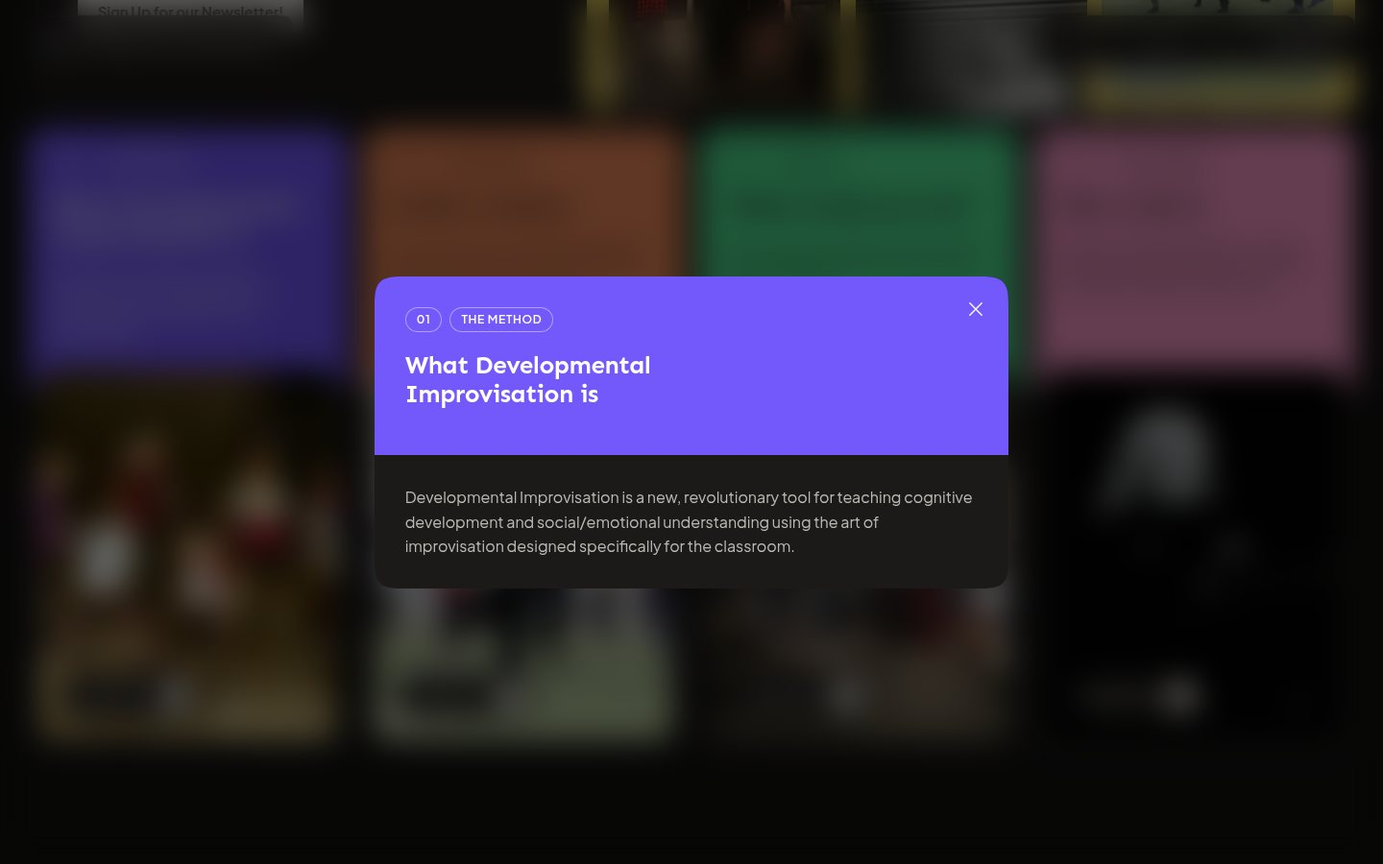
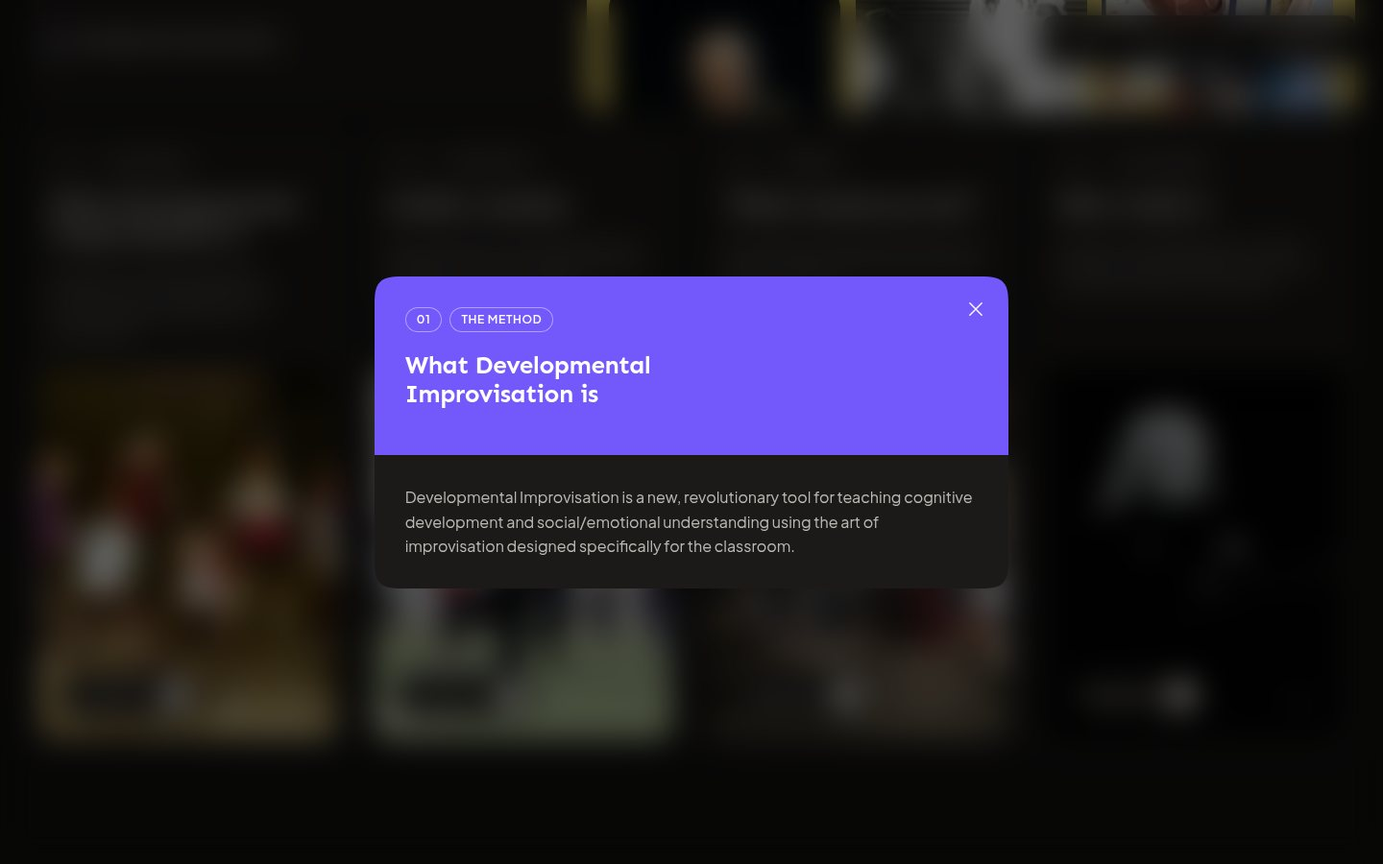
DI: colour rests on a panel; on a card it is a state
Jayden, on looking at v12: the four coloured card heads under the hero were
distracting, the hero should fill the screen so they are not on it at start,
and "I dont want the color to be to distracting it still has to be a premium
site first."

- The hero's photograph panel takes 100svh - --field-top, so the fold lands
  exactly on the field's next gap: no centring air under the panels, and the
  card row starts just off screen.
- The cards' heads are quiet at rest and fill with the card's hue under the
  pointer and on keyboard focus. The reader opens on that same hue. Under
  @media (hover: none) the hue is simply the resting state — where there is
  no pointer there is no state, and a touch screen would otherwise never see
  the section's colour.
- The testimonials' hue moves off the card and onto the person: three quiet
  quote cards, and the overhanging chip carries the colour.

Two surfaces carry a hue at rest now, and both are structure: the hero's
photograph panel and the closing field.

UX: a click that ends a text selection no longer opens the reader — a card is
a big target wrapped around selectable words.

Worst contrast 4.64 -> 5.28:1 dark, 4.82 -> 5.44:1 light. 41 gate lines pass.

Claude-Session: https://claude.ai/code/session_01CEtBSjUp3pkVrxd3vd7dDr

Changed region(s): [[0.0, 0.0, 1.0, 0.4667], [0.0312, 0.0, 0.2188, 0.0311], [0.9375, 0.0, 0.9688, 0.0311]]

diff --git a/di-site/styleguide.html b/di-site/styleguide.html
@@ -78,7 +78,7 @@ code { font-family: ui-monospace, Menlo, monospace; font-size: .85em; color: var
 <p class="t-body">Two things carry the photographs, on one shared angle. <b>The hero's bento</b>: three columns of 4:5 photographs looping vertically inside a colour panel that clips them, adjacent columns opposed, at three speeds. <b>The ring</b> (the quote): eight circles on a circle, upright, turning with the flow; hover one to stop it.</p>
 <div class="demo ring mini-ring" style="margin-top:var(--sp-4);padding:0"><div class="ring__stage"><div class="ring__orbit"><div class="ring__item"><figure class="photo photo--1x1 photo--circle"><picture><source type="image/avif" srcset="images/bow-tie-chairs-160.avif 160w, images/bow-tie-chairs-320.avif 320w, images/bow-tie-chairs-480.avif 480w, images/bow-tie-chairs-960.avif 960w" sizes="80px"><source type="image/webp" srcset="images/bow-tie-chairs-160.webp 160w, images/bow-tie-chairs-320.webp 320w, images/bow-tie-chairs-480.webp 480w, images/bow-tie-chairs-960.webp 960w" sizes="80px"><img src="images/bow-tie-chairs-960.jpg" width="1536" height="1273" alt="" loading="lazy" decoding="async"></picture></figure></div><div class="ring__item"><figure class="photo photo--1x1 photo--circle"><picture><source type="image/avif" srcset="images/linda-laughing-160.avif 160w, images/linda-laughing-320.avif 320w, images/linda-laughing-480.avif 480w, images/linda-laughing-960.avif 960w" sizes="80px"><source type="image/webp" srcset="images/linda-laughing-160.webp 160w, images/linda-laughing-320.webp 320w, images/linda-laughing-480.webp 480w, images/linda-laughing-960.webp 960w" sizes="80px"><img src="images/linda-laughing-960.jpg" width="960" height="1440" alt="" loading="lazy" decoding="async"></picture></figure></div><div class="ring__item"><figure class="photo photo--1x1 photo--circle"><picture><source type="image/avif" srcset="images/cast-pose-160.avif 160w, images/cast-pose-320.avif 320w, images/cast-pose-480.avif 480w, images/cast-pose-960.avif 960w" sizes="80px"><source type="image/webp" srcset="images/cast-pose-160.webp 160w, images/cast-pose-320.webp 320w, images/cast-pose-480.webp 480w, images/cast-pose-960.webp 960w" sizes="80px"><img src="images/cast-pose-960.jpg" width="1536" height="1431" alt="" loading="lazy" decoding="async"></picture></figure></div><div class="ring__item"><figure class="photo photo--1x1 photo--circle"><picture><source type="image/avif" srcset="images/floor-game-160.avif 160w, images/floor-game-320.avif 320w, images/floor-game-480.avif 480w, images/floor-game-960.avif 960w" sizes="80px"><source type="image/webp" srcset="images/floor-game-160.webp 160w, images/floor-game-320.webp 320w, images/floor-game-480.webp 480w, images/floor-game-960.webp 960w" sizes="80px"><img src="images/floor-game-960.jpg" width="1707" height="1280" alt="" loading="lazy" decoding="async"></picture></figure></div><div class="ring__item"><figure class="photo photo--1x1 photo--circle"><picture><source type="image/avif" srcset="images/laugh-hat-160.avif 160w, images/laugh-hat-320.avif 320w, images/laugh-hat-480.avif 480w, images/laugh-hat-960.avif 960w" sizes="80px"><source type="image/webp" srcset="images/laugh-hat-160.webp 160w, images/laugh-hat-320.webp 320w, images/laugh-hat-480.webp 480w, images/laugh-hat-960.webp 960w" sizes="80px"><img src="images/laugh-hat-960.jpg" width="960" height="1440" alt="" loading="lazy" decoding="async"></picture></figure></div><div class="ring__item"><figure class="photo photo--1x1 photo--circle"><picture><source type="image/avif" srcset="images/cast-stage-small-160.avif 160w, images/cast-stage-small-320.avif 320w, images/cast-stage-small-480.avif 480w" sizes="80px"><source type="image/webp" srcset="images/cast-stage-small-160.webp 160w, images/cast-stage-small-320.webp 320w, images/cast-stage-small-480.webp 480w" sizes="80px"><img src="images/cast-stage-small-960.jpg" width="600" height="450" alt="" loading="lazy" decoding="async"></picture></figure></div><div class="ring__item"><figure class="photo photo--1x1 photo--circle"><picture><source type="image/avif" srcset="images/three-men-160.avif 160w, images/three-men-320.avif 320w, images/three-men-480.avif 480w, images/three-men-960.avif 960w" sizes="80px"><source type="image/webp" srcset="images/three-men-160.webp 160w, images/three-men-320.webp 320w, images/three-men-480.webp 480w, images/three-men-960.webp 960w" sizes="80px"><img src="images/three-men-960.jpg" width="2560" height="1700" alt="" loading="lazy" decoding="async"></picture></figure></div><div class="ring__item"><figure class="photo photo--1x1 photo--circle"><picture><source type="image/avif" srcset="images/duo-brick-160.avif 160w, images/duo-brick-320.avif 320w, images/duo-brick-480.avif 480w, images/duo-brick-960.avif 960w" sizes="80px"><source type="image/webp" srcset="images/duo-brick-160.webp 160w, images/duo-brick-320.webp 320w, images/duo-brick-480.webp 480w, images/duo-brick-960.webp 960w" sizes="80px"><img src="images/duo-brick-960.jpg" width="1536" height="1024" alt="" loading="lazy" decoding="async"></picture></figure></div></div><div class="ring__centre"><p class="ring__text" style="font-size:var(--fs-h3)">“Creativity in motion creates knowledge!”</p></div></div></div>
 <h2 class="t-h2" id="briefs">The four cards</h2>
-<p class="t-body">One row of the field: four identical objects, three columns each. The head is the card's hue and carries two chips, the title and a two-line summary; the photograph sits under it and <b>slips --slip 20px up over the colour</b>. The whole card opens the reader.</p>
+<p class="t-body">One row of the field: four identical objects, three columns each. The head carries two chips, the title and a two-line summary; the photograph sits under it and <b>slips --slip 20px up over it</b>. The head is quiet at rest and <b>fills with the card's hue under the pointer and on keyboard focus</b> — hover one — and the reader opens on that same hue. Where there is no hover (a touch screen) the hue is the resting state.</p>
 <div class="grid briefs__row" style="margin-top:var(--sp-4)"><article class="brief" data-accent="violet"><div class="brief__head"><p class="brief__chips"><span class="chip">01</span><span class="chip">The method</span></p><h3 class="brief__title">A title of two lines</h3><p class="brief__sum">Two lines of summary; the reader carries the rest.</p></div><div class="brief__figure"><figure class="photo photo--4x5"><picture><source type="image/avif" srcset="images/kids-dancing-160.avif 160w, images/kids-dancing-320.avif 320w, images/kids-dancing-480.avif 480w, images/kids-dancing-960.avif 960w" sizes="260px"><source type="image/webp" srcset="images/kids-dancing-160.webp 160w, images/kids-dancing-320.webp 320w, images/kids-dancing-480.webp 480w, images/kids-dancing-960.webp 960w" sizes="260px"><img src="images/kids-dancing-960.jpg" width="1536" height="1023" alt="" loading="lazy" decoding="async"></picture></figure><button class="brief__more" type="button">Read more<span class="brief__arrow" aria-hidden="true"><svg class="icon"><use href="#i-arrow-right"/></svg></span></button></div></article><article class="brief" data-accent="orange"><div class="brief__head"><p class="brief__chips"><span class="chip">02</span><span class="chip">In the room</span></p><h3 class="brief__title">A title of two lines</h3><p class="brief__sum">Two lines of summary; the reader carries the rest.</p></div><div class="brief__figure"><figure class="photo photo--4x5"><picture><source type="image/avif" srcset="images/two-lines-160.avif 160w, images/two-lines-320.avif 320w, images/two-lines-480.avif 480w, images/two-lines-960.avif 960w" sizes="260px"><source type="image/webp" srcset="images/two-lines-160.webp 160w, images/two-lines-320.webp 320w, images/two-lines-480.webp 480w, images/two-lines-960.webp 960w" sizes="260px"><img src="images/two-lines-960.jpg" width="2560" height="1920" alt="" loading="lazy" decoding="async"></picture></figure><button class="brief__more" type="button">Read more<span class="brief__arrow" aria-hidden="true"><svg class="icon"><use href="#i-arrow-right"/></svg></span></button></div></article><article class="brief" data-accent="green"><div class="brief__head"><p class="brief__chips"><span class="chip">03</span><span class="chip">The idea</span></p><h3 class="brief__title">A title of two lines</h3><p class="brief__sum">Two lines of summary; the reader carries the rest.</p></div><div class="brief__figure"><figure class="photo photo--4x5"><picture><source type="image/avif" srcset="images/circle-hands-160.avif 160w, images/circle-hands-320.avif 320w, images/circle-hands-480.avif 480w, images/circle-hands-960.avif 960w" sizes="260px"><source type="image/webp" srcset="images/circle-hands-160.webp 160w, images/circle-hands-320.webp 320w, images/circle-hands-480.webp 480w, images/circle-hands-960.webp 960w" sizes="260px"><img src="images/circle-hands-960.jpg" width="1440" height="960" alt="" loading="lazy" decoding="async"></picture></figure><button class="brief__more" type="button">Read more<span class="brief__arrow" aria-hidden="true"><svg class="icon"><use href="#i-arrow-right"/></svg></span></button></div></article><article class="brief" data-accent="pink"><div class="brief__head"><p class="brief__chips"><span class="chip">04</span><span class="chip">The founder</span></p><h3 class="brief__title">A title of two lines</h3><p class="brief__sum">Two lines of summary; the reader carries the rest.</p></div><div class="brief__figure"><figure class="photo photo--4x5"><picture><source type="image/avif" srcset="images/linda-portrait-160.avif 160w, images/linda-portrait-320.avif 320w, images/linda-portrait-480.avif 480w, images/linda-portrait-960.avif 960w" sizes="260px"><source type="image/webp" srcset="images/linda-portrait-160.webp 160w, images/linda-portrait-320.webp 320w, images/linda-portrait-480.webp 480w, images/linda-portrait-960.webp 960w" sizes="260px"><img src="images/linda-portrait-960.jpg" width="1536" height="1073" alt="" loading="lazy" decoding="async"></picture></figure><button class="brief__more" type="button">Read more<span class="brief__arrow" aria-hidden="true"><svg class="icon"><use href="#i-arrow-right"/></svg></span></button></div></article></div>
 <h2 class="t-h2" id="pile">Testimonials</h2>
 <p class="t-body">Three cards, each a full-strength hue: the quote mark, the quote, and the person in a nested white card that overhangs the bottom-left corner. One column on a phone.</p>

diff --git a/di-site/css/home.css b/di-site/css/home.css
@@ -8,6 +8,8 @@
    the voices and the closing field. Every row sits on the same twelve columns, at the same gutter, and every gap
    between panels is --grid-gap. Nothing floats on its own band; the only break is the ring. */
 .hero { padding-top: var(--field-top); padding-bottom: 0; }
+/* the panel's height IS the hero's height, so the fold lands exactly on the field's next gap: no centring air below
+   the panels (that would put a gap bigger than --grid-gap between the hero and the cards and break the field) */
 .hero__grid { align-items: stretch; row-gap: var(--grid-gap); }
 .hero__head { grid-column: 1 / -1; display: grid; align-content: center; gap: var(--sp-6); background: var(--bg-raised); border-radius: var(--r-xl); padding: clamp(28px, 3.6vw, 64px); }
 .hero__title { font-family: var(--font-display); font-size: var(--fs-display); line-height: var(--lh-display); letter-spacing: var(--ls-display); font-weight: 800; color: var(--ink); text-wrap: balance; }
@@ -23,7 +25,7 @@
   .hero__head { grid-column: 1 / span 5; }
   /* an explicit height, never auto: overflow:hidden does not constrain a box that is sizing to its own content,
      and the column of ten tiles made the row 3197px tall, which pushed the copy panel off the screen */
-  .hero__bento { grid-column: 6 / span 7; height: clamp(460px, 76svh, 860px); }
+  .hero__bento { grid-column: 6 / span 7; height: max(460px, calc(100svh - var(--field-top))); }
 }
 @media (min-width: 1280px) { .hero__bento { grid-template-columns: repeat(3, minmax(0,1fr)); } }
 /* first paint: once per session */
@@ -42,9 +44,13 @@
 .briefs { padding-top: var(--grid-gap); }
 .brief { position: relative; grid-column: span 6; display: flex; flex-direction: column; background: var(--bg-raised); border-radius: var(--r-xl); box-shadow: inset 0 0 0 1px var(--line); overflow: hidden; cursor: pointer; transition: transform var(--dur-move) var(--ease-out); }
 .brief:hover { transform: translateY(-4px); }
-/* the head IS the hue, the way all three references build this card. The ink tokens are rebound for the subtree,
-   exactly as on a solid card: a translucent tier over a saturated hue reads as dirt, not as hierarchy. */
-.brief__head { flex: 1 0 auto; display: grid; align-content: start; gap: var(--sp-4); padding: var(--sp-6) var(--sp-6) calc(var(--sp-6) + var(--slip)); background: var(--accent); color: var(--on-accent);
+/* The hue is a STATE, not a resting decoration: four coloured blocks under the hero competed with it. At rest the row
+   is four quiet panels and a photograph each; the card's colour arrives under the pointer and on keyboard focus, and
+   it is the same colour the reader opens on. The ink tokens are rebound for the subtree while it is there, exactly as
+   on a solid card: a translucent tier over a saturated hue reads as dirt, not as hierarchy. */
+.brief__head { flex: 1 0 auto; display: grid; align-content: start; gap: var(--sp-4); padding: var(--sp-6) var(--sp-6) calc(var(--sp-6) + var(--slip)); background: transparent; color: var(--ink);
+  transition: background-color var(--dur-state-out) var(--ease-out), color var(--dur-state-out) var(--ease-out); }
+.brief:hover .brief__head, .brief:focus-within .brief__head { background: var(--accent); color: var(--on-accent);
   --ink: var(--on-accent); --ink-2: var(--on-accent); --ink-3: var(--on-accent); --line: color-mix(in srgb, var(--on-accent) 30%, transparent); --line-strong: color-mix(in srgb, var(--on-accent) 44%, transparent); }
 .brief__chips { display: flex; flex-wrap: wrap; gap: var(--sp-2); }
 .brief__title { font-family: var(--font-display); font-size: var(--fs-h3); line-height: var(--lh-h3); letter-spacing: var(--ls-h3); font-weight: 700; color: var(--ink); text-wrap: balance; }
@@ -62,6 +68,11 @@
 .brief__arrow .icon { width: 16px; height: 16px; }
 .brief:hover .brief__arrow { transform: translateX(3px); }
 @media (min-width: 1280px) { .brief { grid-column: span 3; } }
+/* no pointer, no hover: on a touch screen the hue is simply the resting state, or the section never has a colour at all */
+@media (hover: none) {
+  .brief__head { background: var(--accent); color: var(--on-accent);
+    --ink: var(--on-accent); --ink-2: var(--on-accent); --ink-3: var(--on-accent); --line: color-mix(in srgb, var(--on-accent) 30%, transparent); --line-strong: color-mix(in srgb, var(--on-accent) 44%, transparent); }
+}
 @media (max-width: 767px) {
   .brief__head { padding-bottom: calc(var(--sp-6) + var(--slip)); }
   .brief__more { left: var(--sp-5); bottom: var(--sp-5); }
@@ -89,15 +100,17 @@
 @media (prefers-reduced-motion: reduce) { .ring__item .photo:hover { transform: none; } .js .ring__stage .photo { opacity: 1; transform: none; } }
 
 /* ---------- Voices ----------
-   Three cards, each one of the logo's colours at full strength: the quote mark, the quote, and the person in a nested
-   white sub-card that sits in the card's bottom-left corner (the reference Jayden sent). */
+   Three quiet cards; the hue is on the PERSON, in the nested sub-card that overhangs the bottom-left corner. Three
+   full-strength cards side by side were the loudest thing left on the page once the four cards went quiet, and the
+   brief is premium first. The colour is still the logo's, still in its order — it is a chip now, not a field. */
 .voices > .voice { grid-column: span 6; transition-delay: calc(var(--stagger) * var(--d, 0)); }
-.voice { position: relative; display: flex; flex-direction: column; border-radius: var(--r-xl); background: var(--accent); color: var(--on-accent); padding: var(--card-pad) var(--card-pad) calc(var(--card-pad) + 44px); min-height: 320px; }
-.voice__mark { font-family: var(--font-display); font-size: 4rem; line-height: .8; font-weight: 800; color: color-mix(in oklab, var(--on-accent) 26%, transparent); margin-bottom: var(--sp-4); }
-.voice__quote { font-size: var(--fs-lead); line-height: 1.4; letter-spacing: var(--ls-lead); color: var(--on-accent); text-wrap: pretty; }
+.voice { position: relative; display: flex; flex-direction: column; border-radius: var(--r-xl); background: var(--bg-raised); box-shadow: inset 0 0 0 1px var(--line); color: var(--ink); padding: var(--card-pad) var(--card-pad) calc(var(--card-pad) + 44px); min-height: 320px; }
+.voice__mark { font-family: var(--font-display); font-size: 4rem; line-height: .8; font-weight: 800; color: color-mix(in srgb, var(--ink) 16%, transparent); margin-bottom: var(--sp-4); }
+.voice__quote { font-size: var(--fs-lead); line-height: 1.4; letter-spacing: var(--ls-lead); color: var(--ink); text-wrap: pretty; }
 /* the nested card: it overhangs the foot of the coloured card, which is what gives the group its depth without a shadow */
-.voice__who { position: absolute; left: var(--card-pad); bottom: 0; transform: translateY(50%); display: flex; align-items: center; gap: var(--sp-3); background: var(--bg-raised); border-radius: var(--r-md); padding: var(--sp-3) var(--sp-5) var(--sp-3) var(--sp-3); }
-.voice__avatar { width: 36px; height: 36px; border-radius: 50%; background: var(--ink); color: var(--bg); display: inline-flex; align-items: center; justify-content: center; font-size: 11px; font-weight: 600; flex: none; }
+.voice__who { position: absolute; left: var(--card-pad); bottom: 0; transform: translateY(50%); display: flex; align-items: center; gap: var(--sp-3); background: var(--accent); color: var(--on-accent); border-radius: var(--r-md); padding: var(--sp-3) var(--sp-5) var(--sp-3) var(--sp-3);
+  --ink: var(--on-accent); --ink-3: var(--on-accent); }
+.voice__avatar { width: 36px; height: 36px; border-radius: 50%; background: var(--on-accent); color: var(--accent); display: inline-flex; align-items: center; justify-content: center; font-size: 11px; font-weight: 600; flex: none; }
 .voice__name { font-size: var(--fs-small); font-weight: 600; color: var(--ink); line-height: 1.3; }
 .voice__role { font-size: var(--fs-caption); color: var(--ink-3); line-height: 1.3; }
 @media (min-width: 768px) { .voices > .voice { grid-column: span 4; } }

diff --git a/di-site/js/main.js b/di-site/js/main.js
@@ -203,7 +203,9 @@
     const chips = $('.reader__chips', reader), title = $('.reader__title', reader), prose = $('.reader__prose', reader);
     let from = null;
     $$('.brief').forEach(card => card.addEventListener('click', () => {
-      if (reader.open) return;
+      // a card is a big click target wrapped around selectable text: a drag-select ends in a click on the card,
+      // and opening a dialog on top of the words someone just highlighted is the wrong answer
+      if (reader.open || String(getSelection() || '').length) return;
       from = $('.brief__more', card) || card;
       reader.dataset.accent = card.dataset.accent || '';
       chips.innerHTML = $('.brief__chips', card).innerHTML;

diff --git a/di-site/tools/build-styleguide.py b/di-site/tools/build-styleguide.py
@@ -113,7 +113,7 @@ code {{ font-family: ui-monospace, Menlo, monospace; font-size: .85em; color: va
 <p class="t-body">Two things carry the photographs, on one shared angle. <b>The hero's bento</b>: three columns of 4:5 photographs looping vertically inside a colour panel that clips them, adjacent columns opposed, at three speeds. <b>The ring</b> (the quote): eight circles on a circle, upright, turning with the flow; hover one to stop it.</p>
 <div class="demo ring mini-ring" style="margin-top:var(--sp-4);padding:0"><div class="ring__stage"><div class="ring__orbit">{mini}</div><div class="ring__centre"><p class="ring__text" style="font-size:var(--fs-h3)">“Creativity in motion creates knowledge!”</p></div></div></div>
 <h2 class="t-h2" id="briefs">The four cards</h2>
-<p class="t-body">One row of the field: four identical objects, three columns each. The head is the card's hue and carries two chips, the title and a two-line summary; the photograph sits under it and <b>slips --slip 20px up over the colour</b>. The whole card opens the reader.</p>
+<p class="t-body">One row of the field: four identical objects, three columns each. The head carries two chips, the title and a two-line summary; the photograph sits under it and <b>slips --slip 20px up over it</b>. The head is quiet at rest and <b>fills with the card's hue under the pointer and on keyboard focus</b> — hover one — and the reader opens on that same hue. Where there is no hover (a touch screen) the hue is the resting state.</p>
 <div class="grid briefs__row" style="margin-top:var(--sp-4)">{briefs}</div>
 <h2 class="t-h2" id="pile">Testimonials</h2>
 <p class="t-body">Three cards, each a full-strength hue: the quote mark, the quote, and the person in a nested white card that overhangs the bottom-left corner. One column on a phone.</p>

diff --git a/di-site/docs/design-system.notion.md b/di-site/docs/design-system.notion.md
@@ -53,6 +53,8 @@ Violet is the one hue whose ink changes with the theme, so it goes through `--on
 
 **The order is the system.** The dark ground on the curtain → gold as the hero's photograph panel → violet, orange, green, pink across the four cards, left to right → magenta, gold, green on the testimonials → sky as the closing field. There are **no blocks of colour among the photographs** — the bento is fifteen pictures and nothing else.
 
+**Colour rests on a panel; on a card it is a state.** Two surfaces carry a hue at rest and they are both structure: the hero's photograph panel and the closing field. Everywhere else the hue arrives on interaction — a card's head fills under the pointer and on focus, and the reader opens on that same hue — or it is a chip rather than a field, as on the testimonials, where the hue is on the person and not on the quote. Four coloured card heads under the hero and three coloured testimonial cards were each, in turn, the loudest thing on the page; the brief is premium first. **Where there is no hover there is no state**: under `@media (hover: none)` the card's hue is simply its resting colour, because a touch screen would otherwise never see the section's colour at all.
+
 No coloured text. No hue as a border. No coloured dot before a label — that was removed.
 
 | Token | Light | Dark |
@@ -103,11 +105,11 @@ Two rules learned by looking: **a photograph inside a circle needs its subject a
 The page below it is **one bento field**, top to bottom, at one gutter and one gap:
 
 0. **The header — two tiles.** The wordmark is a tile; the links, the theme toggle and Subscribe are gathered into a second. Both sit on the page's own gutter with the same `--r-md` corner as every panel under them, `--grid-gap` from the top. It is not a bar and not a glass strip. There is no Home link — the logo is the way home — and no Gallery link: the gallery *is* the hero, so a nav item pointing at the top of the page was pointing at itself. **About** and **Contact**.
-1. **Hero: two panels.** The copy on a **cream panel**, left five columns; the right seven a **colour panel** holding a bento of fifteen photographs in three columns, looping vertically with the flow, adjacent columns in opposite directions at three speeds (`--speed` per column). **The panel's own rounded edge is the crop** — there is no soft mask. Each column carries its contents twice and `[data-mid]` marks the loop length; every tile has an intrinsic ratio, so that length is stable before the images load. The panel needs an explicit `height`: `overflow: hidden` does not constrain a box sizing to its own content, and a column of ten tiles once made the row 3197px tall. The hero no longer claims `100svh`: the card row has to break the fold, or the field reads as two pages rather than one.
-2. **The four cards.** One row, four identical objects, three columns each: a **head that is the card's hue** carrying two chips, the title and a two-line summary; the photograph below it; one control. Two cards say what Developmental Improvisation is, one says what it asks of a student, one says who Linda is. **The photograph slips `--slip` 20px up out of its box and over the colour** — the one place on the page a panel's contents cross an edge, and small on purpose: 20px reads as deliberate, 60px reads as broken. The whole card is the trigger and the "Read more" pill is the keyboard route; both open **the reader**, a dialog whose head takes that card's hue so the panel clicked and the panel opened are plainly the same object. The full copy lives in the card (`.brief__full`) and is hidden only when there is script to open a reader.
+1. **Hero: two panels, filling the screen.** The panel's height *is* the hero's height (`100svh − --field-top`), so the fold lands exactly on the field's next gap: no centring air below the panels, and the card row starts just off screen rather than competing with the headline. The copy on a **cream panel**, left five columns; the right seven a **colour panel** holding a bento of fifteen photographs in three columns, looping vertically with the flow, adjacent columns in opposite directions at three speeds (`--speed` per column). **The panel's own rounded edge is the crop** — there is no soft mask. Each column carries its contents twice and `[data-mid]` marks the loop length; every tile has an intrinsic ratio, so that length is stable before the images load. The panel needs an explicit `height`: `overflow: hidden` does not constrain a box sizing to its own content, and a column of ten tiles once made the row 3197px tall.
+2. **The four cards.** One row, four identical objects, three columns each: a head carrying two chips, the title and a two-line summary; the photograph below it; one control. The head is quiet at rest and **fills with the card's hue under the pointer and on keyboard focus** (and at rest where there is no hover). Two cards say what Developmental Improvisation is, one says what it asks of a student, one says who Linda is. **The photograph slips `--slip` 20px up out of its box and over the colour** — the one place on the page a panel's contents cross an edge, and small on purpose: 20px reads as deliberate, 60px reads as broken. The whole card is the trigger and the "Read more" pill is the keyboard route; both open **the reader** (a click that ends a text selection does not — a card is a big target wrapped around selectable words), a dialog whose head takes that card's hue so the panel clicked and the panel opened are plainly the same object. The full copy lives in the card (`.brief__full`) and is hidden only when there is script to open a reader.
    *What this replaced:* a sticky stack of four cards, each with a different beat. Jayden: the second card "doesn't act like the rest of the cards and it makes the scroll weird". Four cards of one shape, in a row, is the answer that survived.
 3. **The quote ring — the break.** Eight circular photographs turning around the quote, on the open ground, with `--section-y` either side: the one place the field stops. Its geometry is one relationship: **eight items on a circle of radius r sit 2r·sin(22.5°) = 0.765r apart**, so an item sized near that reads as a necklace rather than as eight dots with ground between them. The clear space inside is `2r − item`, and the quote's column is that minus 32px — derived, not a magic multiplier. The necklace **assembles on arrival**, one photograph a beat after the last; the entrance lives on the photograph inside each item because the item itself carries the flow's transform every frame.
-4. **Testimonials — the field resumes.** Three cards, four columns each, each a hue: a large quote mark at 26% of the card's ink, the quote, and the person in a **nested card that overhangs the bottom-left corner**. The depth comes from the nesting, not from a shadow. The row carries 30px of bottom padding because that overhang has to land somewhere — without it the three sub-cards sat on the closing field's edge. There is no section label: three quotes with names under them do not need to be told they are testimonials.
+4. **Testimonials — the field resumes.** Three quiet cards, four columns each: a large quote mark at 16% of the card's ink, the quote, and the person in a **nested card that overhangs the bottom-left corner** — and the hue is on that chip, not on the card. The depth comes from the nesting, not from a shadow. The row carries 30px of bottom padding because that overhang has to land somewhere — without it the three sub-cards sat on the closing field's edge. There is no section label: three quotes with names under them do not need to be told they are testimonials.
 5. **The closing field** — the last panel in the field, in the same container as every row above it (it used to size itself, which put its edges 36px outside the column at 1920). The brand's own line at display scale, then the sign-up, the two contact links and the copyright, in one sky field.
 
 **The mark** is the colour logo on the dark page and **black on the light one** — the colour logo needs a dark ground to hold together. The star in the counter of the "d" takes the page's colour, not the ink, or the counter closes up. The rule is scoped to the nav so the curtain's mark stays in colour.
@@ -116,6 +118,6 @@ The page below it is **one bento field**, top to bottom, at one gutter and one g
 `.btn` (primary/secondary/ghost/compact, 46px, `--r-sm`) · `.arrow` (44px circle) · `.chip` (the smallest tile: a label in a pill on the hairline) · `.theme` (the toggle; the choice is applied before first paint by an inline script, so there is no flash) · `.card` / `.card--solid` / `.card--line` · `.brief` (the four cards) · `.photo` (+ `--4x5`, `--1x1`, `--circle`) · `.label` (12px caps, no dot) · `.field` / `.input` · `.nav` (two tiles on the field's own gutter) · `.sheet` · `.dialog` / `.reader` · `.lightbox`. Each is on `styleguide.html` in both themes.
 
 ## Gates
-`tools/gates/run-all.sh`, serially, 37 lines: layout (overflow, headline lines, **every** container on the column, four equal card widths) · targets · contrast (every visible text node, both themes) · copy · images · motion · ring (the ring and the bento) · lightbox · dialog · curtain · a11y. Three self-tests, each of which must fail: `ring.mjs` shrinks the ring, `contrast.mjs` paints the ink onto the ground, `curtain.mjs` pins the curtain so it can neither travel nor be removed. Every gate but `dialog` starts with the newsletter popup already shown, and every gate but `curtain` starts past the curtain. **`run-all.sh` checks both the exit status and whether a gate reported anything at all**: a gate that throws prints its stack to stderr and no report line, and the run then *looks* green because nothing said FAIL. That has happened three times here, every time from a selector going stale. Serve from `di-site/` on `127.0.0.1:4611`, never `localhost`.
+`tools/gates/run-all.sh`, serially, 41 lines: layout (overflow, headline lines, **every** container on the column, four equal card widths) · targets · contrast (every visible text node, both themes) · copy · images · motion · ring (the ring and the bento) · reader (the four cards) · lightbox · dialog · curtain · a11y. Four self-tests, each of which must fail: `ring.mjs` shrinks the ring, `contrast.mjs` paints the ink onto the ground, `curtain.mjs` pins the curtain so it can neither travel nor be removed, `reader.mjs` strips the reader's copy. Every gate but `dialog` starts with the newsletter popup already shown, and every gate but `curtain` starts past the curtain. **`run-all.sh` checks both the exit status and whether a gate reported anything at all**: a gate that throws prints its stack to stderr and no report line, and the run then *looks* green because nothing said FAIL. That has happened three times here, every time from a selector going stale. Serve from `di-site/` on `127.0.0.1:4611`, never `localhost`.
 
 One more trap, from the ring gate: **a fixed viewport coordinate is not "away from" something whose size is a token.** The gate parked the pointer at the top centre of the viewport to prove the ring resumes — and at 1024×768 the stage is 770px tall, so that point is another ring photograph and the flow stays held, correctly. The gate computes a point outside `r + item/2` of the stage's centre now. `window.__di.flow.holdKeys` names whatever is holding the flow; that is what found it.

diff --git a/di-site/docs/design-system.md b/di-site/docs/design-system.md
@@ -52,6 +52,8 @@ Violet is the one hue whose ink changes with the theme, so it goes through `--on
 
 **The order is the system.** The dark ground on the curtain → gold as the hero's photograph panel → violet, orange, green, pink across the four cards, left to right → magenta, gold, green on the testimonials → sky as the closing field. There are **no blocks of colour among the photographs** — the bento is fifteen pictures and nothing else.
 
+**Colour rests on a panel; on a card it is a state.** Two surfaces carry a hue at rest and they are both structure: the hero's photograph panel and the closing field. Everywhere else the hue arrives on interaction — a card's head fills under the pointer and on focus, and the reader opens on that same hue — or it is a chip rather than a field, as on the testimonials, where the hue is on the person and not on the quote. Four coloured card heads under the hero and three coloured testimonial cards were each, in turn, the loudest thing on the page; the brief is premium first. **Where there is no hover there is no state**: under `@media (hover: none)` the card's hue is simply its resting colour, because a touch screen would otherwise never see the section's colour at all.
+
 No coloured text. No hue as a border. No coloured dot before a label — that was removed.
 
 | Token | Light | Dark |
@@ -102,11 +104,11 @@ Two rules learned by looking: **a photograph inside a circle needs its subject a
 The page below it is **one bento field**, top to bottom, at one gutter and one gap:
 
 0. **The header — two tiles.** The wordmark is a tile; the links, the theme toggle and Subscribe are gathered into a second. Both sit on the page's own gutter with the same `--r-md` corner as every panel under them, `--grid-gap` from the top. It is not a bar and not a glass strip. There is no Home link — the logo is the way home — and no Gallery link: the gallery *is* the hero, so a nav item pointing at the top of the page was pointing at itself. **About** and **Contact**.
-1. **Hero: two panels.** The copy on a **cream panel**, left five columns; the right seven a **colour panel** holding a bento of fifteen photographs in three columns, looping vertically with the flow, adjacent columns in opposite directions at three speeds (`--speed` per column). **The panel's own rounded edge is the crop** — there is no soft mask. Each column carries its contents twice and `[data-mid]` marks the loop length; every tile has an intrinsic ratio, so that length is stable before the images load. The panel needs an explicit `height`: `overflow: hidden` does not constrain a box sizing to its own content, and a column of ten tiles once made the row 3197px tall. The hero no longer claims `100svh`: the card row has to break the fold, or the field reads as two pages rather than one.
-2. **The four cards.** One row, four identical objects, three columns each: a **head that is the card's hue** carrying two chips, the title and a two-line summary; the photograph below it; one control. Two cards say what Developmental Improvisation is, one says what it asks of a student, one says who Linda is. **The photograph slips `--slip` 20px up out of its box and over the colour** — the one place on the page a panel's contents cross an edge, and small on purpose: 20px reads as deliberate, 60px reads as broken. The whole card is the trigger and the "Read more" pill is the keyboard route; both open **the reader**, a dialog whose head takes that card's hue so the panel clicked and the panel opened are plainly the same object. The full copy lives in the card (`.brief__full`) and is hidden only when there is script to open a reader.
+1. **Hero: two panels, filling the screen.** The panel's height *is* the hero's height (`100svh − --field-top`), so the fold lands exactly on the field's next gap: no centring air below the panels, and the card row starts just off screen rather than competing with the headline. The copy on a **cream panel**, left five columns; the right seven a **colour panel** holding a bento of fifteen photographs in three columns, looping vertically with the flow, adjacent columns in opposite directions at three speeds (`--speed` per column). **The panel's own rounded edge is the crop** — there is no soft mask. Each column carries its contents twice and `[data-mid]` marks the loop length; every tile has an intrinsic ratio, so that length is stable before the images load. The panel needs an explicit `height`: `overflow: hidden` does not constrain a box sizing to its own content, and a column of ten tiles once made the row 3197px tall.
+2. **The four cards.** One row, four identical objects, three columns each: a head carrying two chips, the title and a two-line summary; the photograph below it; one control. The head is quiet at rest and **fills with the card's hue under the pointer and on keyboard focus** (and at rest where there is no hover). Two cards say what Developmental Improvisation is, one says what it asks of a student, one says who Linda is. **The photograph slips `--slip` 20px up out of its box and over the colour** — the one place on the page a panel's contents cross an edge, and small on purpose: 20px reads as deliberate, 60px reads as broken. The whole card is the trigger and the "Read more" pill is the keyboard route; both open **the reader** (a click that ends a text selection does not — a card is a big target wrapped around selectable words), a dialog whose head takes that card's hue so the panel clicked and the panel opened are plainly the same object. The full copy lives in the card (`.brief__full`) and is hidden only when there is script to open a reader.
    *What this replaced:* a sticky stack of four cards, each with a different beat. Jayden: the second card "doesn't act like the rest of the cards and it makes the scroll weird". Four cards of one shape, in a row, is the answer that survived.
 3. **The quote ring — the break.** Eight circular photographs turning around the quote, on the open ground, with `--section-y` either side: the one place the field stops. Its geometry is one relationship: **eight items on a circle of radius r sit 2r·sin(22.5°) = 0.765r apart**, so an item sized near that reads as a necklace rather than as eight dots with ground between them. The clear space inside is `2r − item`, and the quote's column is that minus 32px — derived, not a magic multiplier. The necklace **assembles on arrival**, one photograph a beat after the last; the entrance lives on the photograph inside each item because the item itself carries the flow's transform every frame.
-4. **Testimonials — the field resumes.** Three cards, four columns each, each a hue: a large quote mark at 26% of the card's ink, the quote, and the person in a **nested card that overhangs the bottom-left corner**. The depth comes from the nesting, not from a shadow. The row carries 30px of bottom padding because that overhang has to land somewhere — without it the three sub-cards sat on the closing field's edge. There is no section label: three quotes with names under them do not need to be told they are testimonials.
+4. **Testimonials — the field resumes.** Three quiet cards, four columns each: a large quote mark at 16% of the card's ink, the quote, and the person in a **nested card that overhangs the bottom-left corner** — and the hue is on that chip, not on the card. The depth comes from the nesting, not from a shadow. The row carries 30px of bottom padding because that overhang has to land somewhere — without it the three sub-cards sat on the closing field's edge. There is no section label: three quotes with names under them do not need to be told they are testimonials.
 5. **The closing field** — the last panel in the field, in the same container as every row above it (it used to size itself, which put its edges 36px outside the column at 1920). The brand's own line at display scale, then the sign-up, the two contact links and the copyright, in one sky field.
 
 **The mark** is the colour logo on the dark page and **black on the light one** — the colour logo needs a dark ground to hold together. The star in the counter of the "d" takes the page's colour, not the ink, or the counter closes up. The rule is scoped to the nav so the curtain's mark stays in colour.

diff --git a/docs/developmental-improvisation/BUILD-PROMPT.md b/docs/developmental-improvisation/BUILD-PROMPT.md
@@ -94,6 +94,13 @@ need white, so it goes through `--on-violet`, which is warm black in light and w
 text tier goes to `--on-accent`: a translucent tier over a saturated hue reads as dirt, not as hierarchy. Surfaces that
 carry a hue **rebind their ink tokens for that subtree** rather than following the theme.
 
+**Colour rests on a panel; on a card it is a state.** Exactly two surfaces carry a hue at rest, and both are structure:
+the hero's photograph panel and the closing field. Everywhere else the hue arrives on interaction — a card's head fills
+under the pointer and on focus, and the reader opens on that same hue — or it is a chip rather than a field, as on the
+testimonials. Under `@media (hover: none)` a card's hue is its resting colour: where there is no pointer there is no
+state, and a touch screen would otherwise never see it. Jayden, twice: the colour must not be distracting, and the site
+is premium first.
+
 No gradients anywhere. No coloured text. No hue as a border. A hue is never a 12px frame drawn round a photograph —
 that was built once and read as a neon outline, not as a panel. Colour is spare: a panel, a card head, a field.
 
@@ -138,7 +145,8 @@ second. Same gutter, same `--r-md` corner as everything under them, `--grid-gap`
 the way home) and **no Gallery link** — the gallery *is* the hero, so that item pointed at the top of the page from the
 top of the page. **About · Contact.**
 
-**1. The hero — two panels.** Copy on a cream panel, left five columns; the right seven a colour panel holding fifteen
+**1. The hero — two panels, filling the screen.** The panel's height IS the hero's height (`100svh − --field-top`), so
+the fold lands on the field's next gap and the card row starts just off screen. Copy on a cream panel, left five columns; the right seven a colour panel holding fifteen
 photographs in three columns, looping vertically with the flow, adjacent columns opposed, three speeds. The panel's own
 rounded edge is the crop — no soft mask. Each column carries its contents twice, `[data-mid]` marks the loop length, and
 the panel needs an **explicit height**: `overflow: hidden` does not constrain a box sizing to its own content, and a
@@ -146,8 +154,8 @@ column of ten tiles once made the row 3197px tall. The hero does **not** claim `
 fold or the field reads as two pages.
 
 **2. The four cards.** One row, four identical objects, three columns each (two up, then one, as the grid narrows). Each
-carries a **head that is the card's hue** with two chips, the title and a two-line summary; the photograph below; one
-control. Two say what Developmental Improvisation is, one says what it asks of a student, one says who Linda is. The
+carries a head with two chips, the title and a two-line summary; the photograph below; one control, and the head fills
+with the card's hue under the pointer and on focus. Two say what Developmental Improvisation is, one says what it asks of a student, one says who Linda is. The
 photograph **slips `--slip` 20px up out of its box and over the colour** — the one place a panel's contents cross an
 edge, and small on purpose. The whole card is the trigger; the "Read more" pill is the keyboard route; both open **the
 reader**, a dialog whose head takes that card's hue. The full copy lives in the card and is hidden only when there is

diff --git a/di-site/docs/BUILD-LOG.md b/di-site/docs/BUILD-LOG.md
@@ -20,6 +20,8 @@ Jayden's twelfth pass, in five messages: card 02 "doesnt act like the rest of th
 - Under `prefers-reduced-motion` every revealing element still slid 12px: `.js .reveal` (0,2,0) outranks `.reveal` (0,1,0) even inside the media query, so the reset never applied. It has carried the class since v5.
 - The closing field sized itself instead of sitting in the page container, so above 1793px its edges were 36px outside the column every other panel sits on. The layout gate only looked at `.section .container`; it looks at every container now.
 
+**Then, on looking at it:** *"the bottom cards are a bit distracting so maybe making the color only come out on hover… and make the hero bigger those arent on the screen on start"*, and *"I dont want the color to be to distracting it still has to be a premium site first."* So the rule became: **colour rests on a panel; on a card it is a state.** The hero's panel takes `100svh − --field-top` so the card row starts just off screen; the cards' heads are quiet until the pointer or the keyboard reaches them (and coloured at rest under `@media (hover: none)`, where no pointer exists); the testimonials' hue moved off the card and onto the person's chip. Two surfaces carry a hue at rest now, and both are structure. Worst contrast improved 4.64 → 5.28:1 in dark and 4.82 → 5.44:1 in light.
+
 **Measured after v12.** 41 gate lines pass, including a new `reader.mjs` and its self-test.
 
 ## v11 (2026-09-06) — the four things between 8.5 and 9
